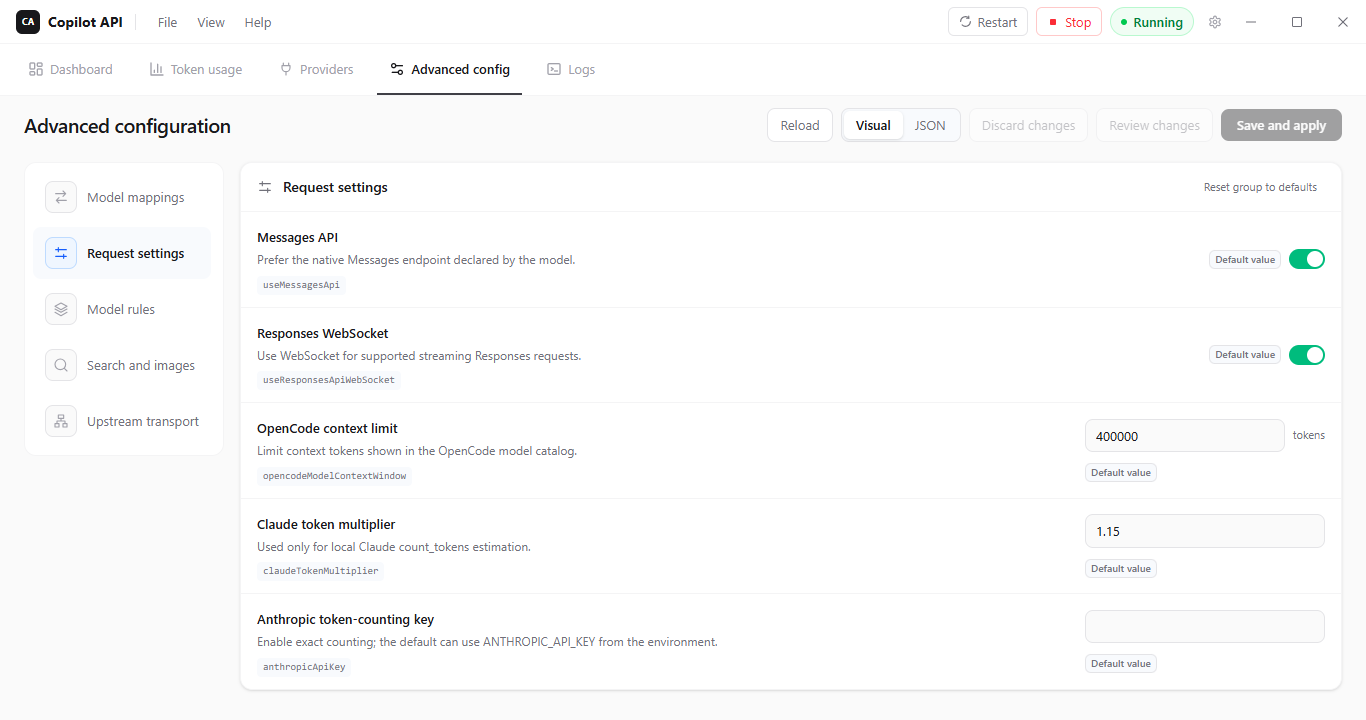
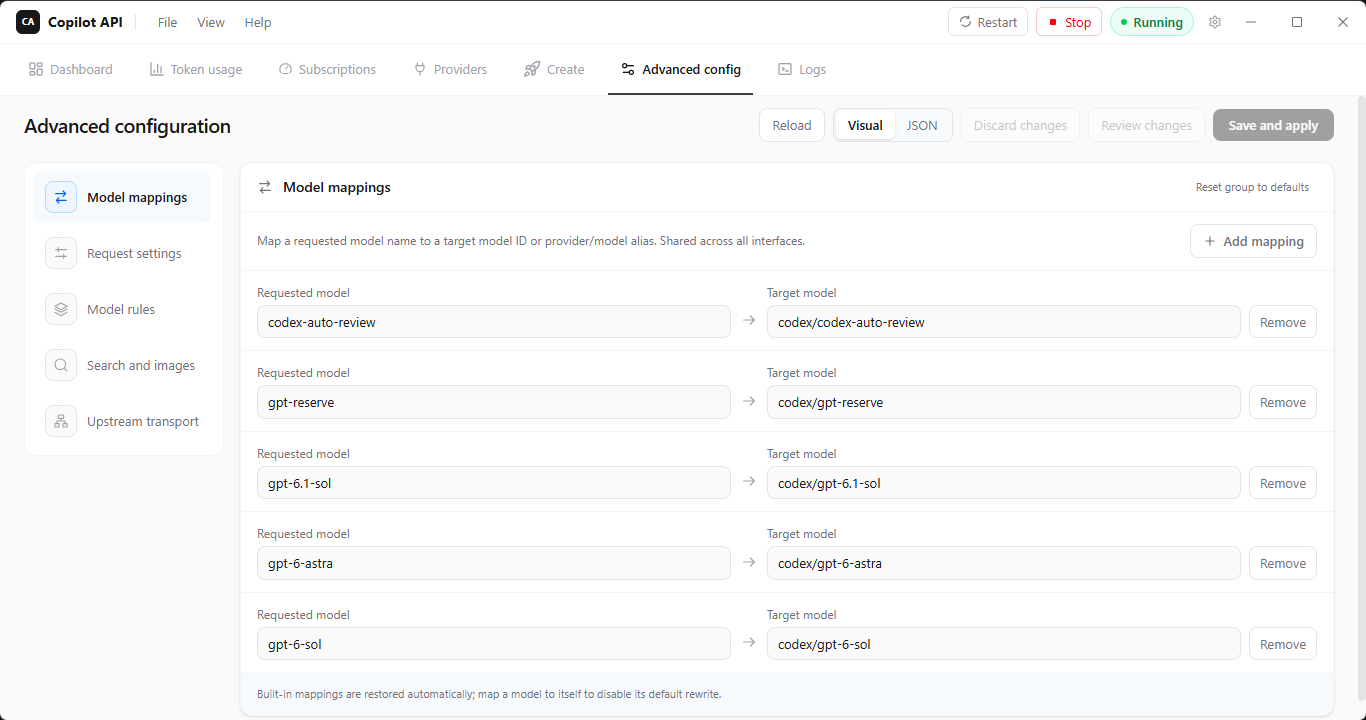
fix: refine dashboard scaling and config defaults
Apply 90% default zoom to the usage viewer and reopen clean desktop
configuration editors at Model mappings while preserving unsaved drafts.
Refresh desktop, provider management, and usage viewer screenshots.

diff --git a/desktop/tests/config-editor-ui.test.ts b/desktop/tests/config-editor-ui.test.ts
@@ -732,12 +732,14 @@ describe('Desktop config editor', () => {
     )
   })
 
-  test('refreshes clean drafts on entry but retains unsaved edits across tab changes', async () => {
+  test('opens model mappings on clean entry but retains unsaved edits and their section', async () => {
     await render(false, false)
     expect(read).not.toHaveBeenCalled()
     await render()
+    expect(button('Model mappings').getAttribute('aria-current')).toBe('page')
     await click('Request settings')
     expect(read).toHaveBeenCalledTimes(1)
+    await click('JSON')
     await render(false, false)
     documentFixture = {
       ...documentFixture,
@@ -746,12 +748,16 @@ describe('Desktop config editor', () => {
     }
     await render()
     expect(read).toHaveBeenCalledTimes(2)
+    expect(button('Model mappings').getAttribute('aria-current')).toBe('page')
+    expect(button('Visual').getAttribute('aria-selected')).toBe('true')
+    await click('Request settings')
     expect(field('useMessagesApi').checked).toBe(false)
     await act(async () => field('useMessagesApi').click())
     await render(false, false)
     documentFixture.content = '{"useMessagesApi":false,"external":true}'
     await render()
     expect(read).toHaveBeenCalledTimes(2)
+    expect(button('Request settings').getAttribute('aria-current')).toBe('page')
     expect(field('useMessagesApi').checked).toBe(true)
   })
 

diff --git a/pages/index.html b/pages/index.html
@@ -18,6 +18,9 @@
 
     <style>
       :root {
+        --page-zoom: 0.9;
+        zoom: var(--page-zoom);
+
         --color-red: #dc2626;
         --color-green: #16a34a;
         --color-yellow: #d97706;
@@ -62,7 +65,7 @@
       }
 
       .app-shell {
-        min-height: 100vh;
+        min-height: calc(100vh / var(--page-zoom));
         background: linear-gradient(180deg, #f8fafc 0%, #eef2f7 100%);
       }
 

diff --git a/desktop/src/pages/AdvancedConfigPage.tsx b/desktop/src/pages/AdvancedConfigPage.tsx
@@ -175,6 +175,8 @@ export default function AdvancedConfigPage({
   }
   useEffect(() => {
     if (!active || dirty) return
+    setSection('mappings')
+    setMode('form')
     let current = true
     setBusy(true)
     setError('')
